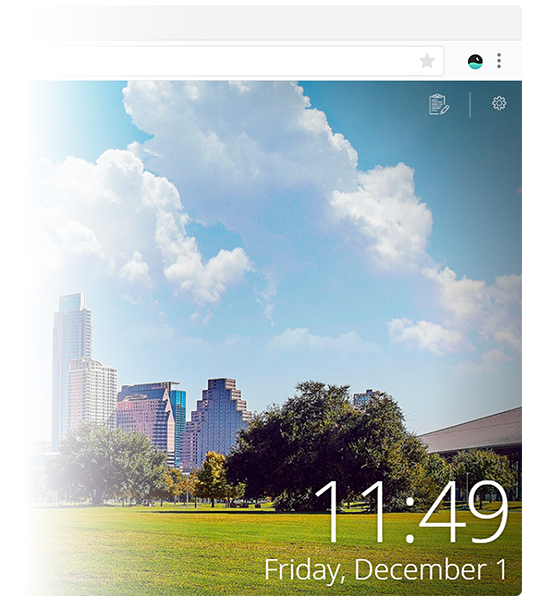
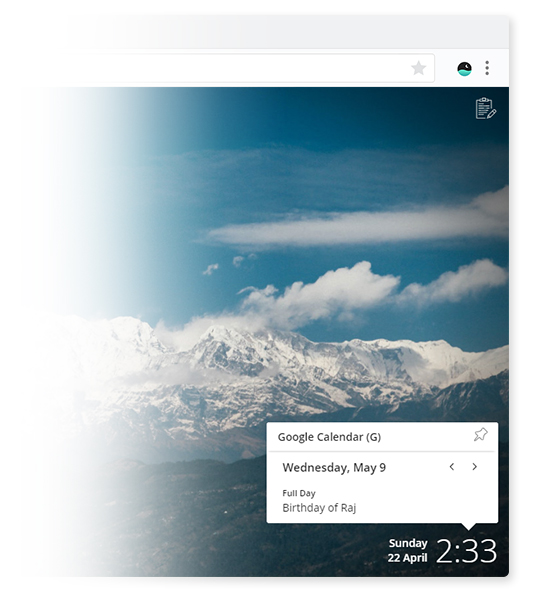
fix(HomePage): add calendar integration link on page

diff --git a/src/assets/data/feature.js b/src/assets/data/feature.js
@@ -2,29 +2,34 @@ export const wallpapers = {
   desc: 'Choose from 4 different categories - Nature, Architecture, Travel and Night life or make your own custom list of wallpapers.',
   heading: 'Refreshing Wallpapers',
   img: 'wallpapers.jpg',
-  id: 'wallpaper'
-}
+  id: 'wallpaper',
+  imgAlt: 'wallpapers in subtle tab'
+};
 export const notes = {
   desc: 'Got some ideas running through your mind? Jot them down before you forget. It has multi-list and rich-text support.',
   heading: 'Notes Widget',
   img: 'notes.jpg',
-  id: 'notes'
-}
+  id: 'notes',
+  imgAlt: 'keep notes handy'
+};
 export const weather = {
   desc: 'Auto locates your location or supports custom location to stay informed about current weather, pollution and weather forecast',
   heading: 'Weather Widget',
   img: 'weather.jpg',
-  id: 'weather'
-}
+  id: 'weather',
+  imgAlt: 'weather forecast and current temperature'
+};
 export const dateTime = {
-  desc: 'Keep track of time during the day to manage your tasks and improve productivity.',
+  desc: `Keep track of time to make most out of your day and remain updated with upcoming events from Google Calendar. <br><a href="#/kb/integrations/calendar" class="btn-block mt-10">Integrate Google Calendar > </a>`,
   heading: 'Date & Time Widget',
   img: 'day-time.jpg',
-  id: 'dateTime'
-}
+  id: 'dateTime',
+  imgAlt: 'current time and google calendar integration'
+};
 export const customize = {
   desc: 'Customize and show-hide features as per your needs.',
   heading: 'Customizable',
   img: 'customize.jpg',
-  id: 'customize'
-}
+  id: 'customize',
+  imgAlt: 'customize weather, time and notes'
+};

diff --git a/src/components/Feature.vue b/src/components/Feature.vue
@@ -2,22 +2,22 @@
   <section class="feature-section row flex-center">
     <template v-if="contentRight && isDesktop">
       <div class="feature-img col s12 l6">
-        <img :src="featureImg" alt="">
+        <img :src="featureImg" :alt="imgAlt">
       </div>
       <div class="feature-desc  col s12 l6">
         <h3 class="light font-black">{{heading}}</h3>
-        <p>{{ desc }}</p>
+        <p v-html="desc"/>
       </div>
     </template>
     <template v-else>
       <div class="feature-desc col s12 l6">
         <h3 class="light font-black">{{heading}}</h3>
-        <p class="show-on-large hide-on-med-and-down">{{ desc }}</p>
+        <p class="show-on-large hide-on-med-and-down" v-html="desc"></p>
       </div>
       <div class="feature-img col s12 l6 right-align">
-        <img :src="featureImg" alt="">
+        <img :src="featureImg" :alt="imgAlt">
       </div>
-      <p class="hide-on-large-only">{{ desc }}</p>
+      <p class="hide-on-large-only" v-html="desc"></p>
     </template>
   </section>
 </template>
@@ -32,6 +32,10 @@
       },
       img: {
         required: true
+      },
+      imgAlt: {
+        default: true,
+        type: String
       },
       contentRight: {
         default: true

diff --git a/src/components/FeatureWrapper.vue b/src/components/FeatureWrapper.vue
@@ -9,6 +9,7 @@
       :heading="feature.heading"
       :img="feature.img"
       :id="feature.id"
+      :imgAlt="feature.imgAlt"
       :contentRight="isEven($index)"
     />
   </div>

diff --git a/src/assets/css/util.css b/src/assets/css/util.css
@@ -39,6 +39,9 @@
 .mt-30 {
   margin-top: 30px;
 }
+.mt-10 {
+  margin-top: 10px;
+}
 
 .mar-0 {
   margin: 0 !important;
